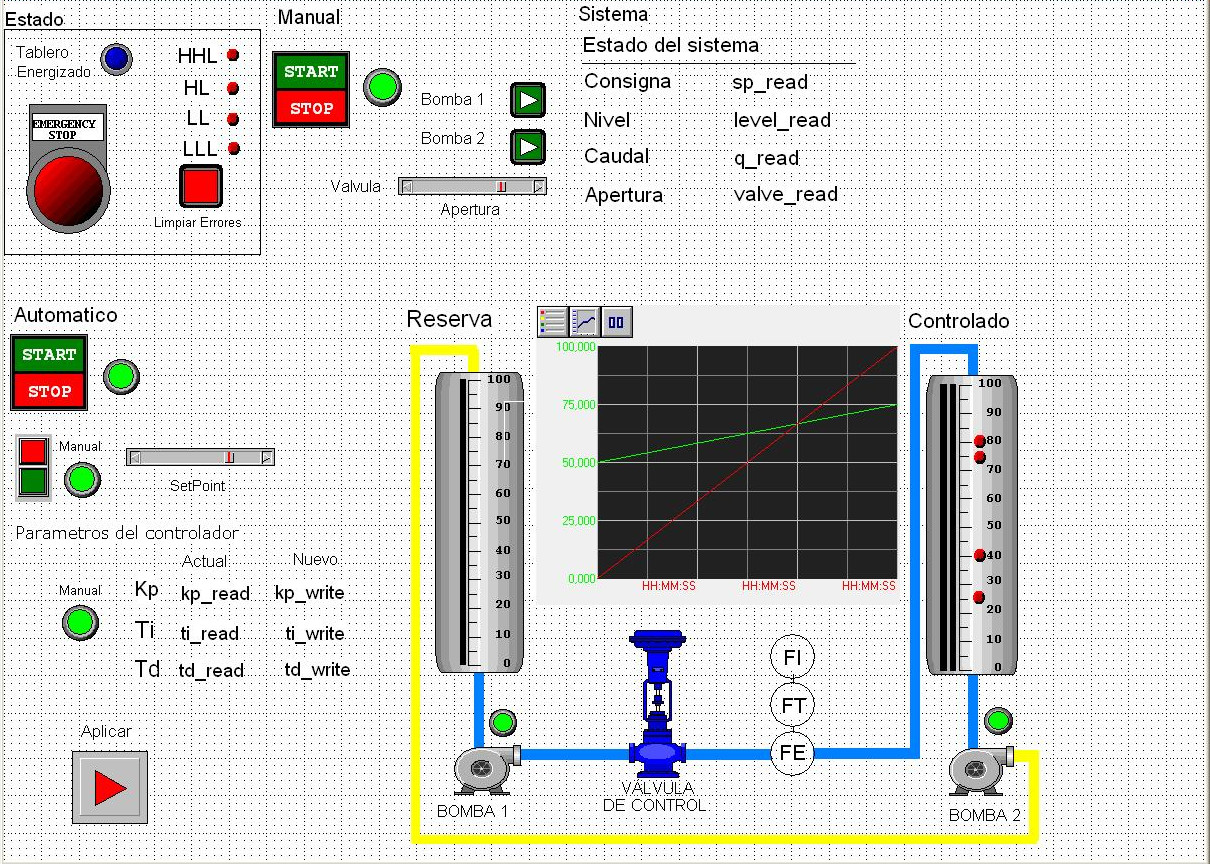
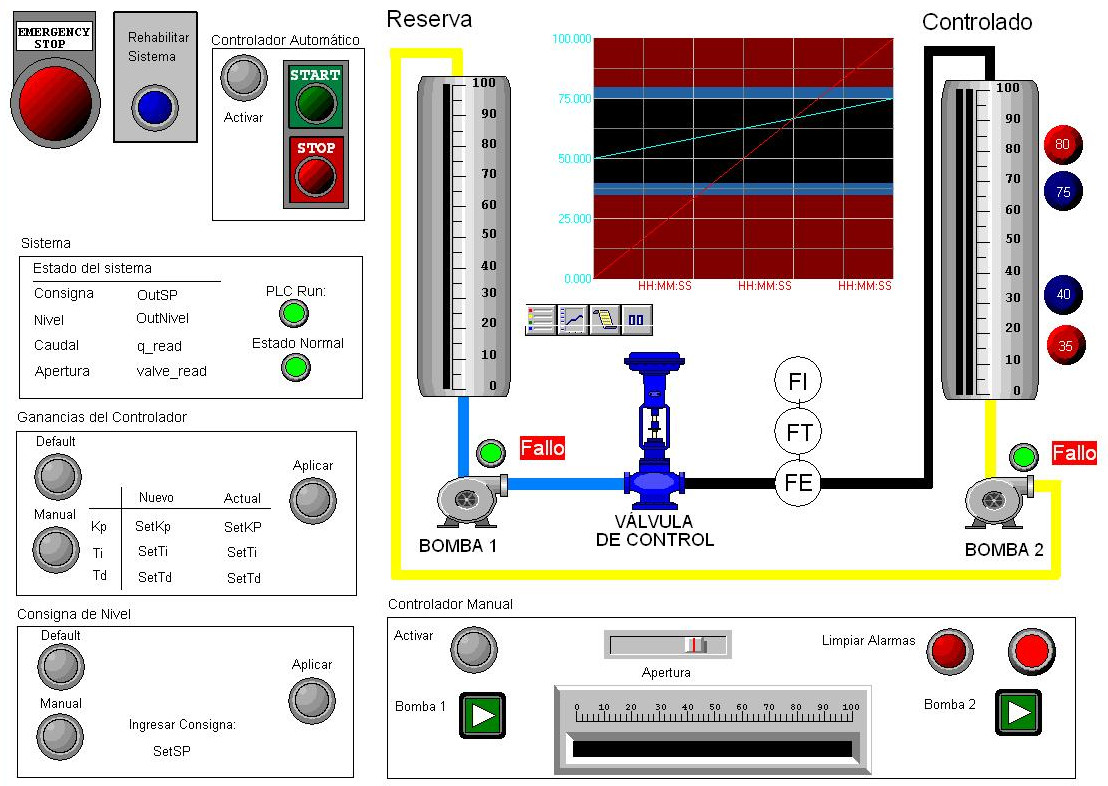
Terminado el Manual del usuario y primeras revisiones Cap4

diff --git a/Informe/Anexos/Anexo2-Operacion.tex b/Informe/Anexos/Anexo2-Operacion.tex
@@ -75,7 +75,7 @@ Se aconseja escribir y ejecutar en el \gls{plc} el programa que se encuentra en
 el DVD adjunto, denominado {\color{red}(nombre del programa)}. Así el sistema 
 estará en un estado a partir del cual se puede operar con el sistema 
 \gls{scada} propuesto.
-\todo{imagen del programa y colocar el nombre definitivo del programa}
+%\todo{imagen del programa y colocar el nombre definitivo del programa}
 Este programa se debe abrir con el Software Twido Soft y luego proceder de la 
 manera que se indica a continuación:
 
@@ -128,11 +128,95 @@ Cargar el programa desde la computadora al \gls{plc}.
 operación de la planta.
 \end{lattention}
 
-\subsubsection{Iniciar P-CIM}\todo{Agregar como se recupera un proyecto desde un 
-Backup?}
+\subsubsection{Restore Project}
+El primer paso para utilizar el sistema \gls{scada} es recuperar el 
+proyecto para AFCON P-CIM del DVD adjunto. Siga las siguientes instrucciones 
+para completar esta tarea:
+\begin{table}[H]
+\small
+\centering
+\renewcommand*{\arraystretch}{0.3}
+\begin{tabular}{*{2}{m{0.435\textwidth}}}
+\hline
+  Elija Setup de P-CIM del grupo de aplicaciones que se encuentran la carpeta 
+  AFCON P-CIM[7.70SP4]. 
+  &\begin{center}
+    %\rule{0.4\textwidth}{0.3\textwidth}
+    \includegraphics[width=0.4\textwidth]
+	{Cap5-SCADA/images/Dibujo1.JPG}
+  \end{center}\\
+\hline
+  De la ventana de Setup de P-CIM seleccione Restore Project.
+  Se desplegará la ventana de diálogo de instalación para restaurar el proyecto.
+  &\begin{center}
+    %\rule{0.4\textwidth}{0.3\textwidth}
+    \includegraphics[height=0.3\textwidth]
+	{Cap5-SCADA/images/PcimSetup.jpeg}
+  \end{center}\\
+\hline
+  De la ventana de Restore Project oprima Browse para seleccionar la carpeta 
+  PFE\_ ABC del DVD adjunto. Luego, se pedirá autorización para continuar con 
+  la restauración. Finalmente, oprima Yes para hacerlo como proyecto por 
+  Default.
+  &\begin{center}
+    %\rule{0.4\textwidth}{0.3\textwidth}
+    \includegraphics[width=0.4\textwidth]
+	{Anexos/images/restoreProject.JPG}
+  \end{center}\\
+\hline
+\end{tabular}
+%\caption{Instalación del Driver Modbus}
+%\label{tab:installModbus}
+\end{table}
 
-Para controlar el sistema desde el \gls{scada} de P-CIM de AFCON, es necesario 
-iniciar P-CIM y verificar que el driver de Modbus se haya cargado correctamente:
+\subsubsection{Verificar la Comunicación}
+A continuación debemos verificar que la comunicación con el \gls{plc} 
+se encuentra bien configurada y que el sistema \gls{scada} es capas de 
+intercambiar información. Proceda como se describe a continuación:
+\begin{table}[!ht]
+\centering
+\renewcommand*{\arraystretch}{0.01}
+\begin{tabular}{*{2}{m{0.45\textwidth}}}
+\hline
+  Seleccione de la  ventana de P-CIM Setup  el botón P-CIM Communication Setup. 
+  Luego, desde la ventana de diálogo ``Project Communication Setup'' 
+  marque la línea correspondiente en el cuadro de Assigned ports y 
+  elija  Properties.
+    &\begin{center}
+      %\rule{0.4\textwidth}{0.3\textwidth}
+       \includegraphics[width=0.4\textwidth]
+	{Cap5-SCADA/images/commSetup.jpeg}
+    \end{center}\\
+\hline
+   Se despliega la ventana P-CIM Configurator for MODBUS Driver. Verifique 
+   que Network Type sea RS232. Presione el botón Transport Parameter el cual 
+   despliega una nueva ventana
+  &\begin{center}
+    %\rule{0.4\textwidth}{0.3\textwidth}
+    \includegraphics[width=0.4\textwidth]
+      {Cap5-SCADA/images/modbusDriver.jpeg}
+  \end{center}\\
+\hline 
+   El valor de COM Port debe ser el mismo que aparece en el Administrador de 
+   Dispositivos de Windows correspondiente al puerto serie de 
+   comunicaciones con el \gls{plc}. Baud Rate:19200. 
+  &\begin{center}
+    %\rule{0.4\textwidth}{0.3\textwidth}
+        \includegraphics[width=0.4\textwidth]
+      {Cap5-SCADA/images/modbusDriver2.jpeg}
+  \end{center}\\
+\hline
+\end{tabular}
+%\caption{Propiedades del Driver Modbus}
+%\label{tab:PropModbus}
+\end{table}
+
+
+\newpage
+\subsubsection{Iniciar P-CIM}
+Finalmente, para controlar el sistema desde el \gls{scada} de P-CIM de AFCON, 
+es necesario iniciar P-CIM y verificar que el driver de Modbus se haya cargado 
+correctamente permitiendo la comunicación con el \gls{scada}:
 \begin{table}[!ht]
 \centering
 \renewcommand*{\arraystretch}{0.01}
@@ -171,7 +255,8 @@ abrirá la aplicación Operator Workspace ejecutando el entorno gráfico del
 sistema \gls{scada}.
 
 A través de esta interfaz es posible manejar la planta.
-Pueden diferenciarse 4 bloques principales (Ver Fig.\ref{fig:hmiscada2})
+Pueden diferenciarse los siguientes bloques principales (Ver 
+Fig.\ref{fig:hmiscada2})
 \begin{figure}[!ht]
 	\centering
 	\includegraphics[width=0.8\textwidth]
@@ -181,19 +266,29 @@ Pueden diferenciarse 4 bloques principales (Ver Fig.\ref{fig:hmiscada2})
   \end{figure}
   
 \begin{enumerate}
- \item \textbf{Control Automatico:} En esta sección usted puede enviar al
-\gls{plc} de la planta la consigna/setpoint y las constantes del controlador
-$K_p$, $T_i$ y $T_d$.
+\item \textbf{Parada de Emergencia:} Mediante este botón se para totalmente la 
+planta y solo volvera a responde si se presiona \textbf{Rehabilitar Sistema}.
+ \item \textbf{Control Automático:} Desde estos controles se activa o detiene 
+la planta cuando el controlador automático esta activo.
  \item \textbf{Control Manual:} Este modo debe ser usado solamente como un
 medio para
 sacar a la planta de un estado de emergencia tras  haberse declarado una alarma
 por HHL o LLL.
 Aquí podrá encender las bombas individualmente y controlar la apertura de la
 válvula.
+ \item \textbf{Ganancias del Controlador:} En esta sección usted puede enviar al
+\gls{plc} de la planta las constantes del controlador $K_p$, $T_i$ y $T_d$. 
+Puede seleccionar los valores por Default o Manual. Pulse Aplicar para que los 
+cambios sean efectivos.
+ \item \textbf{Consigna de Nivel} En esta sección usted puede enviar al
+\gls{plc} de la planta la consigna/setpoint de nivel del tanque controlado. 
+Puede seleccionar el valor por Default(50\%) o Manual. Pulse Aplicar para que 
+los cambios sean efectivos.
  \item \textbf{Sistema:} En este apartado podemos ver el estado del actual del
-sistema.
-Es decir se muestran los valores de nivel y caudal actuales e históricos juntos
-con las alarmas.
- \item \textbf{Activación:} Desde estos controles se activa o detiene la
-planta.
+sistema.Es decir, se muestran los valores de consigna de nivel, nivel 
+actual, caudal y apertura de la válvula. También se señalan el estado del 
+\gls{plc} y si el sistema se encuentra funcionando en estado normal.
+\item {Elementos Gráficos}: En ellos se pueden observar los valores actuales e 
+historicos de nivel de ambos tanques. También se señalan las alarmas de nivel y 
+sus valores.
 \end{enumerate}

diff --git a/Informe/Cap4-ProgramacionPLC/Cap4-ProgramacionPLC.tex b/Informe/Cap4-ProgramacionPLC/Cap4-ProgramacionPLC.tex
@@ -16,7 +16,8 @@ Antes de realizar la programación en lenguaje Ladder, propio del \gls{plc},
 se pensó en el algoritmo que incluya todas las tareas que el
 controlador debe cumplir (gestión de alarmas, adquisición de parámetros,
 control de la válvula, encendido y apagado de motores).
-Se observa en en el algoritmo \ref{img:algoritmo} la solución propuesta.
+Se observa en el algoritmo ( Alg. en adelante)\ref{img:algoritmo} la 
+solución propuesta.
 
 \begin{algorithm}[!ht]
  \small
@@ -59,14 +60,16 @@ Se observa en en el algoritmo \ref{img:algoritmo} la solución propuesta.
     }
   }
 }
- \caption{tareas a cumplir por el controlador de manera secuencial.}
+ \caption{Tareas a cumplir por el controlador de manera secuencial.}
  \label{img:algoritmo}
 \end{algorithm}
 
 \section{Programación}
 \label{sec:Programacion}
 Se utilizó el programa Twido Soft, de Schneider Electric, para poder programar
-el \gls{plc}. Se programó en lenguaje Ladder.
+el Alg.\ref{img:algoritmo} en lenguaje Ladder y posteriormente cargarlo en el 
+\gls{plc}. En el Anexo \ref{anexo:programaLadder} se encuentra el programa en 
+Ladder que corre en \gls{plc} de la planta.
 
 \subsection{Breve descripción del programa en Ladder}
 
@@ -110,14 +113,14 @@ numéticas, realizar bucles \gls{pid}, contadores, registros, etc.
 
 Cada una de las partes del programa se denomina \emph{RUNG} (escalón o
 peldaño).
-La ejecución de los peldaños es secuencial, comenzando por \verb|RUNG 0|.
+La ejecución de los peldaños es secuencial, comenzando por el \verb|RUNG 0|.
 En cada peldaño se describen paso a paso las acciones que deseamos que
 el controlador realice, de acuerdo al estado del sistema o las ordenes
 recibidas desde el \gls{scada}.
 
 La Fig. \ref{fig:ladder} muestra un diagrama de los diferentes peldaños de
 nuestro programa de aplicación.
-Se observa que la estructura secuencial del algoritmo \ref{img:algoritmo} ha
+Se observa que la estructura secuencial del Alg. \ref{img:algoritmo} ha
 sido respetada en los peldaños.
 
 \todo{comparar Ladder y algoritmo con el programa
@@ -162,11 +165,12 @@ size=1pt]
 \label{fig:ladder}
 \end{figure}
 
-El \gls{plc} puede guardar información de diversa índole en memoria.
+El \gls{plc} puede guardar información de diversa índole en memoria, por 
+ejemplo valores binarios.
 Estos valores en memoria pueden ser utilizados para modificar las salidas, a
 modo de banderas.
 También pueden guardarse valores numéricos, útiles para consignas,
-ganancias, etc.
+ganancias o lecturas de sensores analógicos.
 Se diferencian dos tipos de celdas de memoria:
 
 \begin{table}[ht]
@@ -181,7 +185,7 @@ Se diferencian dos tipos de celdas de memoria:
 \verb|M2|  & Sistema en modo Manual/Automático\\
 \verb|M3|  & Error de Nivel\\
 \verb|M4|  & Error de Motor\\
-\verb|M4|  & Parade de emergencia\\
+\verb|M4|  & Parada de emergencia\\
 \hline
 \end{tabular}
 \caption{Banderas internas.}
